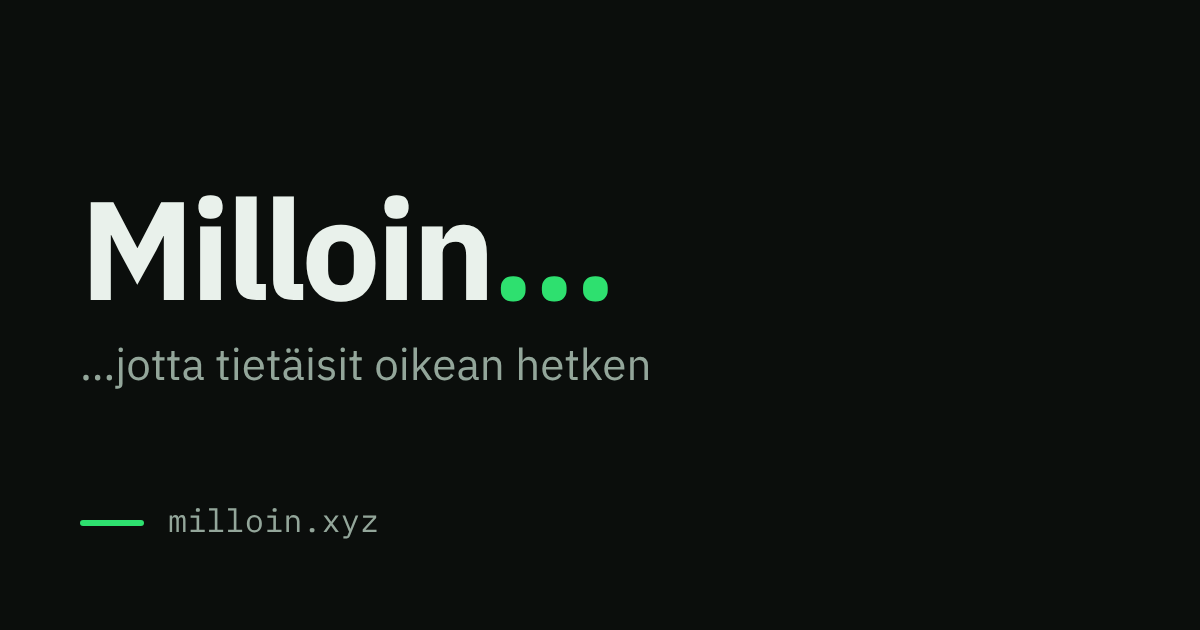
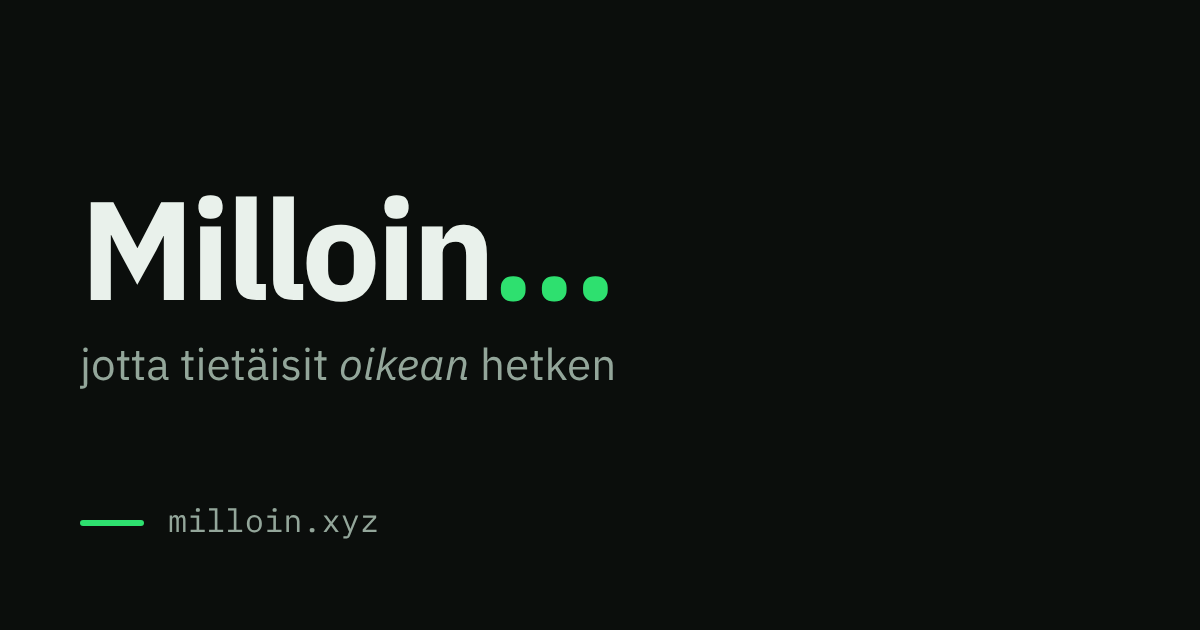
Drop the leading dots from the link preview subtitle and italicize "oikean"
Claude-Session: https://claude.ai/code/session_011x16bapXvUjGMfwv3Andh8

Changed region(s): [[0.0617, 0.5429, 0.555, 0.6032]]

diff --git a/src/index.html b/src/index.html
@@ -28,7 +28,7 @@
   <meta property="og:url" content="https://milloin.xyz/">
   <meta property="og:site_name" content="Milloin">
   <meta property="og:locale" content="fi_FI">
-  <meta property="og:image" content="https://milloin.xyz/og-image.png?v=2">
+  <meta property="og:image" content="https://milloin.xyz/og-image.png?v=3">
   <meta property="og:image:type" content="image/png">
   <meta property="og:image:width" content="1200">
   <meta property="og:image:height" content="630">
@@ -38,7 +38,7 @@
   <meta name="twitter:card" content="summary_large_image">
   <meta name="twitter:title" content="Milloin… – Vastaukset arjen milloin-kysymyksiin">
   <meta name="twitter:description" content="Milloin saunotaan, pestään pyykit tai ladataan auto, milloin Kelan tuet, veronpalautukset ja eläke tulevat tilille ja milloin Ence pelaa? Vastaukset arjen milloin-kysymyksiin ja sähkön hinta nyt.">
-  <meta name="twitter:image" content="https://milloin.xyz/og-image.png?v=2">
+  <meta name="twitter:image" content="https://milloin.xyz/og-image.png?v=3">
 
   <!-- Structured Data (JSON-LD) -->
   <script type="application/ld+json">
@@ -72,7 +72,7 @@
       "Eläkkeiden maksupäivät",
       "ENCE:n seuraava CS2-ottelu ja striimit"
     ],
-    "screenshot": "https://milloin.xyz/og-image.png?v=2",
+    "screenshot": "https://milloin.xyz/og-image.png?v=3",
     "softwareVersion": "2.0",
     "datePublished": "2025-01-01",
     "dateModified": "2026-10-09",
